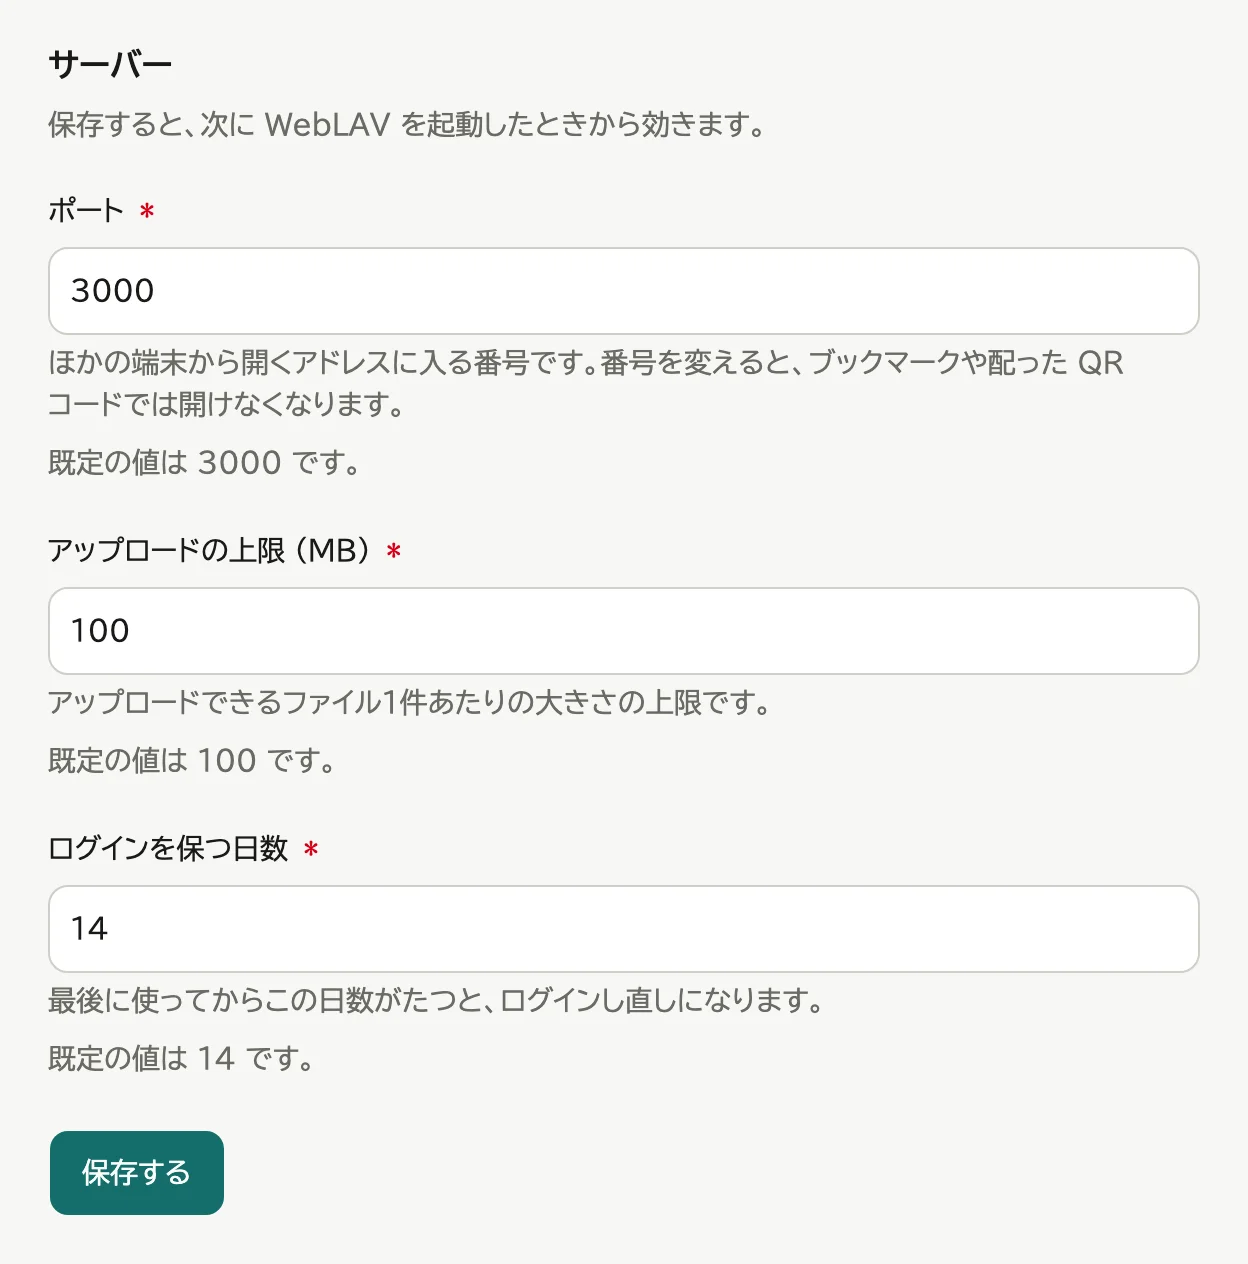
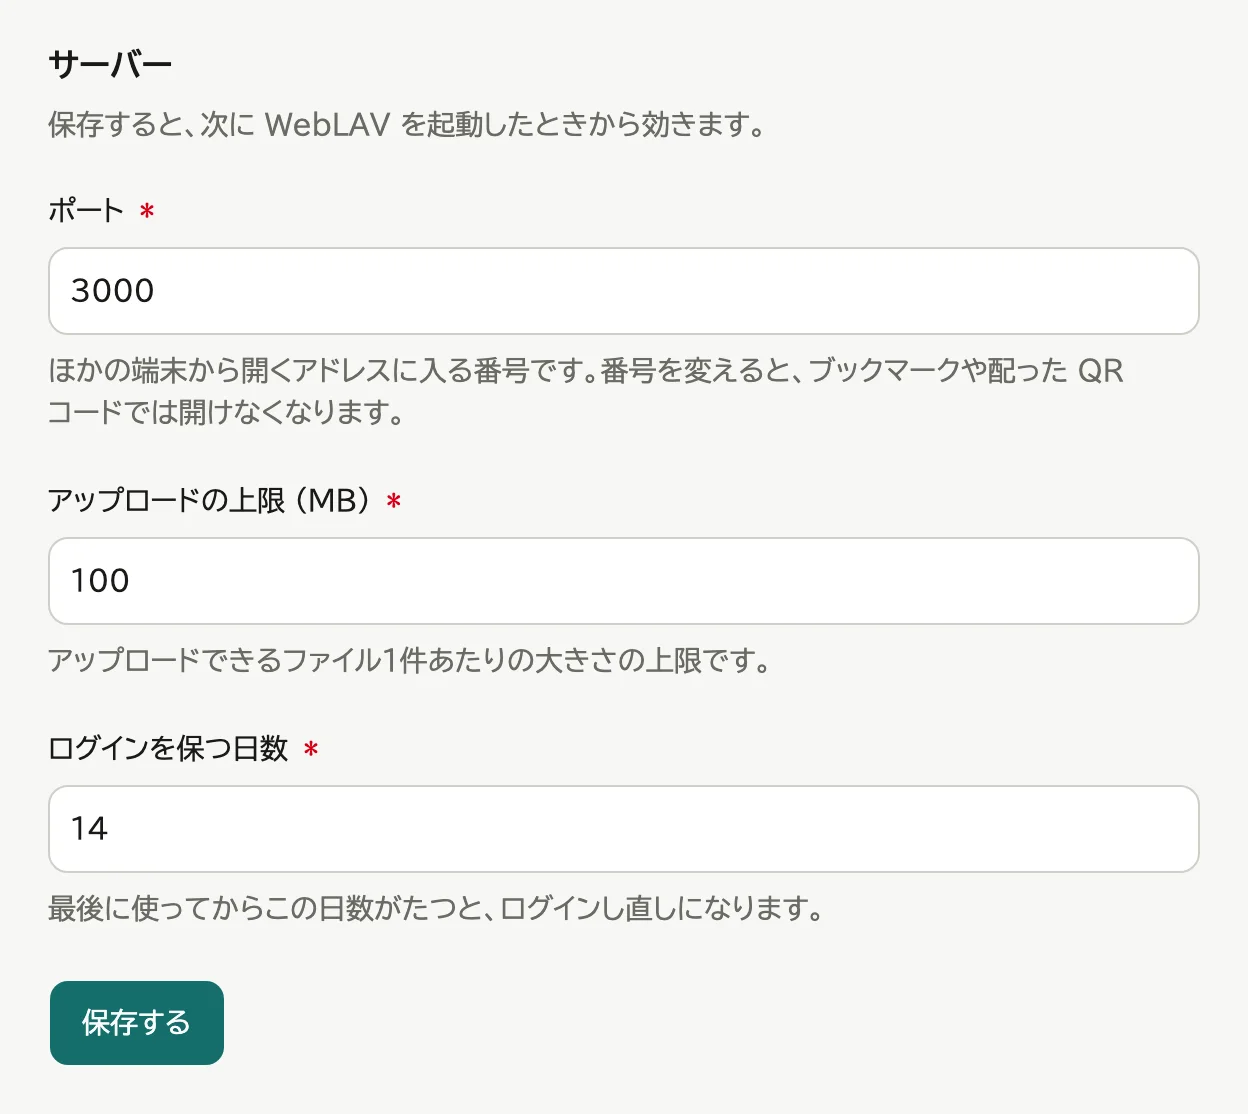
レビューの指摘: 既定の値と戻すボタンは変えてある項目にだけ出す
- 既定のままの項目に「既定の値は N です。」を繰り返さない。
- 英語の戻すボタンの読み上げ名を、見えている文言から始まる形にする。
- flip-videos の名前の検査を Object.hasOwn にする。

diff --git a/frontend/src/routes/admin/settings/+page.svelte b/frontend/src/routes/admin/settings/+page.svelte
@@ -179,13 +179,14 @@
 	{/if}
 {/snippet}
 
-<!-- 既定の値と、そこへ戻すボタン。戻すのは入力欄の値だけで、保存は区画の保存ボタンで行う。 -->
+<!-- 既定の値と、そこへ戻すボタン。変えてある項目にだけ出す (既定のままの項目に同じ文を繰り返さない)。
+     戻すのは入力欄の値だけで、保存は区画の保存ボタンで行う。 -->
 {#snippet defaultValue(name: string, value: number, initial: number, reset: () => void)}
-	<div class="flex flex-wrap items-center gap-x-3 gap-y-1">
-		<Field.FieldDescription
-			>{m.admin_settings_default_value({ value: initial })}</Field.FieldDescription
-		>
-		{#if value !== initial}
+	{#if value !== initial}
+		<div class="flex flex-wrap items-center gap-x-3 gap-y-1">
+			<Field.FieldDescription
+				>{m.admin_settings_default_value({ value: initial })}</Field.FieldDescription
+			>
 			<Button
 				type="button"
 				variant="outline"
@@ -193,8 +194,8 @@
 				aria-label={m.admin_settings_reset_button_label({ name })}
 				onclick={reset}>{m.admin_settings_reset_button()}</Button
 			>
-		{/if}
-	</div>
+		</div>
+	{/if}
 {/snippet}
 
 <div class={adminPageClass}>

diff --git a/frontend/e2e/admin.e2e.ts b/frontend/e2e/admin.e2e.ts
@@ -354,7 +354,7 @@ test('管理画面: サーバーの設定は、既定から変えると印が付
 	const form = page.getByRole('form', { name: /^サーバー$|^Server$/ });
 	const input = form.getByRole('spinbutton', { name: /^アップロードの上限|^Upload limit/ });
 	const reset = form.getByRole('button', {
-		name: /^「アップロードの上限 \(MB\)」を既定の値に戻す$|^Reset "Upload limit \(MB\)" to default$/
+		name: /^「アップロードの上限 \(MB\)」を既定の値に戻す$|^Reset to default: Upload limit \(MB\)$/
 	});
 
 	await input.fill(String(changed));

diff --git a/frontend/scripts/flip-videos.ts b/frontend/scripts/flip-videos.ts
@@ -51,7 +51,7 @@ const ROLES: Record<
 };
 
 const ONLY = process.argv.slice(2);
-const unknown = ONLY.filter((name) => !(name in stories));
+const unknown = ONLY.filter((name) => !Object.hasOwn(stories, name));
 if (unknown.length > 0) {
 	// 名前を打ち間違えたまま、何も撮らずに成功で終えないため。
 	console.error(

diff --git a/docs/ui.md b/docs/ui.md
@@ -421,7 +421,8 @@
   - 3つとも保存しても次の起動から効く。ポートは動いている間に変えられないので、ほかの2つも扱いをそろえ、画面の説明を1つで済ませる。
   - 保存した値が動いている値と違う項目には「今は {値} で動いています」と添える。起動し直すまで効かないことと、ポートをずらして起動していること (→ distribution.md「常駐 (Windows)」) の両方を、同じ形で伝えるため。
   - 保存は区画ごとに分ける。「ホームの表示」はすぐ効き、「サーバー」は次の起動から効くので、1つのボタンにまとめると、どちらがいつ効くのかが読み取れないため。
-  - 各項目に既定の値を出し、既定の値から変えてある項目は、ラベルの横に補助色の小さな文字で「既定から変更」と添え、「既定の値に戻す」を出す。元の数字を覚えていなくても戻せるように。印に差し色は使わない。
+  - 既定の値から変えてある項目は、ラベルの横に補助色の小さな文字で「既定から変更」と添え、説明の下に既定の値と「既定の値に戻す」を出す。元の数字を覚えていなくても戻せるように。印に差し色は使わない。
+    既定のままの項目には出さない。3項目に同じ文が並んで、本来の説明が埋もれるため。
     印と戻す操作は項目ごとに置く。ポートを戻すとブックマークや配った QR コードで開けなくなるので、区画ごとまとめて戻す形にしない。
     戻すのは入力欄の値だけで、保存は区画の保存ボタンで行う。入力欄が保存した値と違う間は、保存ボタンの横に「保存していない変更があります」と出す。
     印を付けるのは「サーバー」の区画だけ。「ホームの表示」は既定が空で、入っていれば変えてあると分かり、「ログ」はスイッチの向きがそのまま既定かどうかを表すため。
